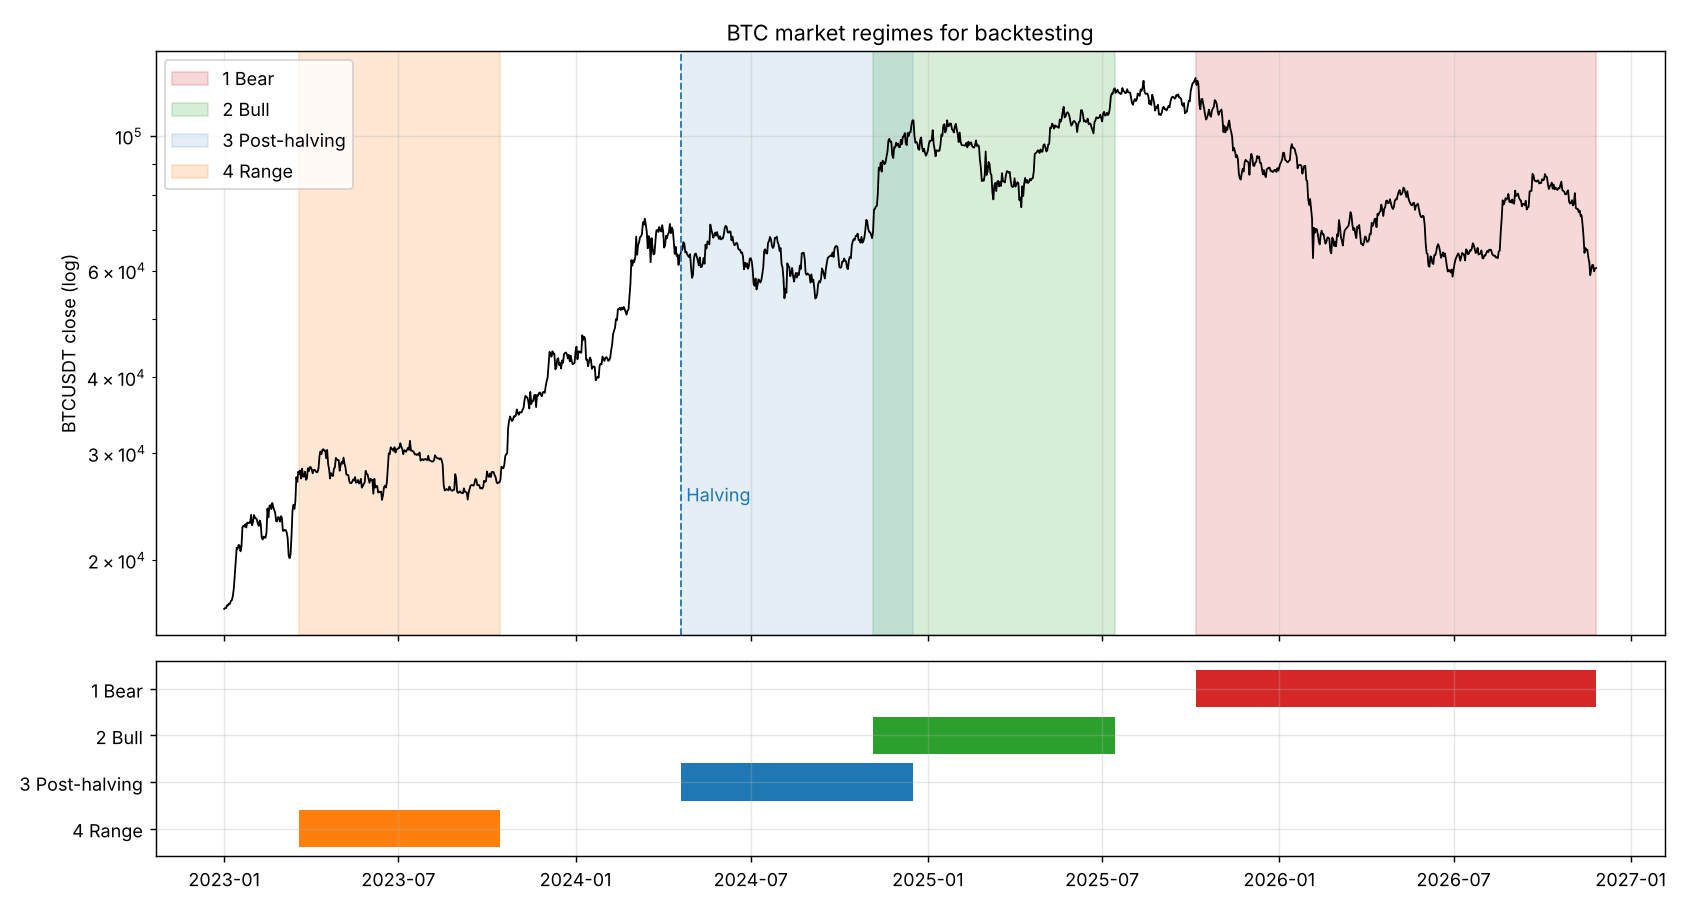
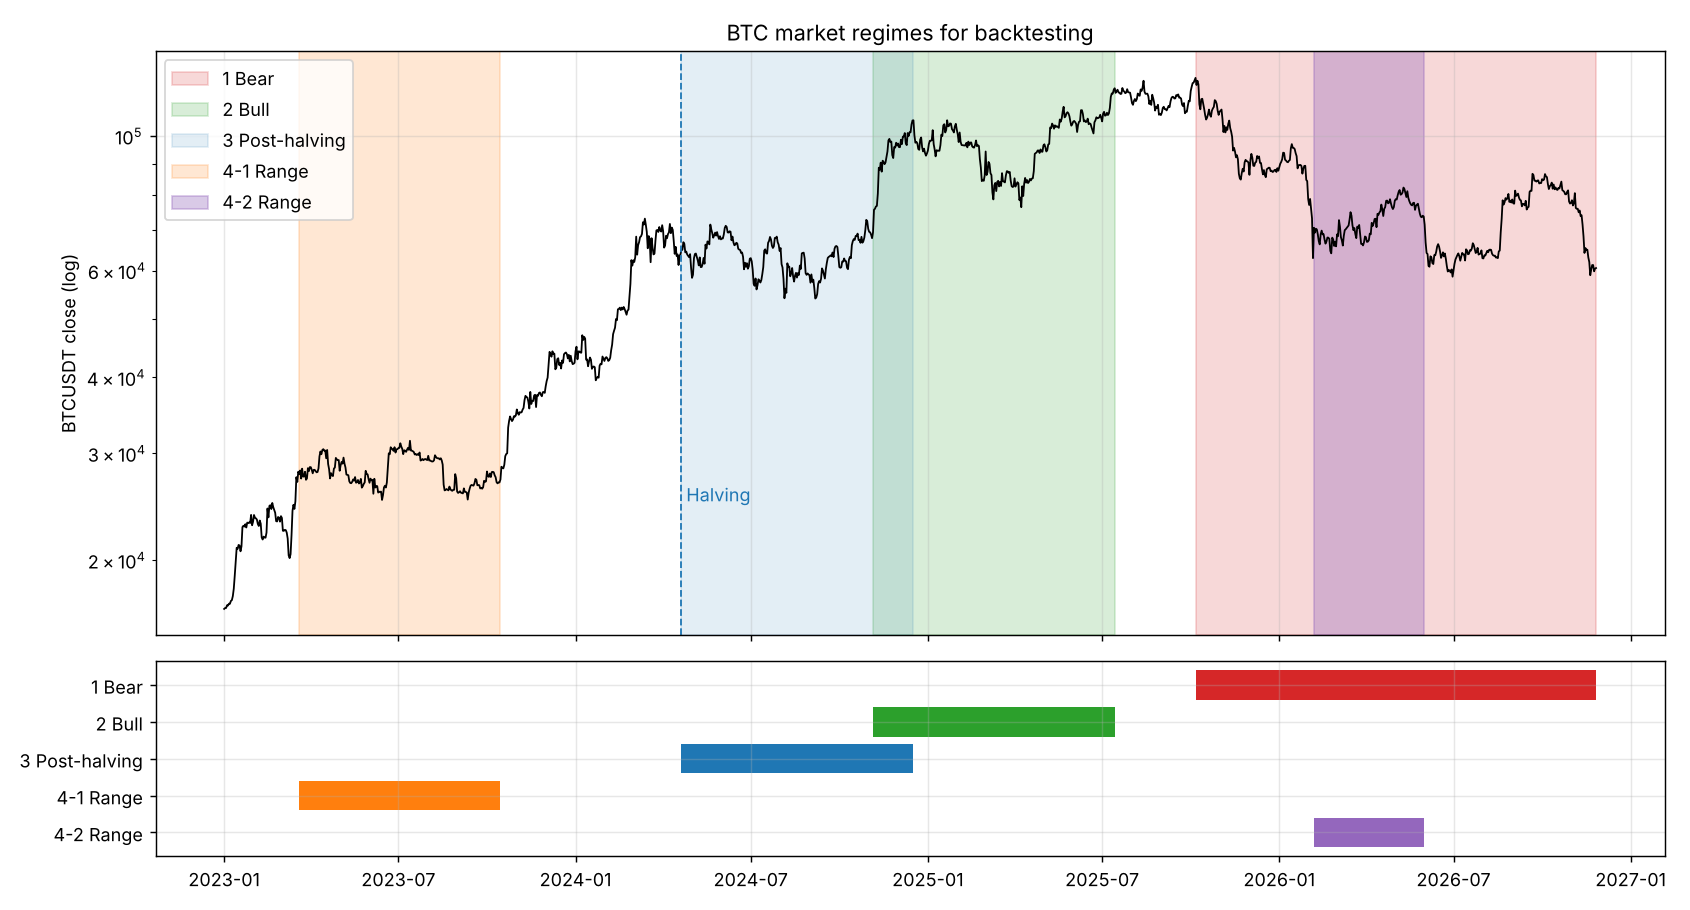
Add 4-2 range period (2026-02-06 ~ 2026-05-31)
Claude-Session: https://claude.ai/code/session_01UDv7FnLjYdrcZqWWgL6eY1

diff --git a/scripts/plot_periods.py b/scripts/plot_periods.py
@@ -5,17 +5,17 @@ import matplotlib.pyplot as plt
 from periods import PERIODS
 ROOT = Path(__file__).resolve().parents[1]
 d = pd.read_csv(ROOT/"data/btcusdt_1d.csv", index_col=0, parse_dates=True).loc["2023-01-01":]
-colors = {"1_bear":"#d62728","2_bull":"#2ca02c","3_halving":"#1f77b4","4_range":"#ff7f0e"}
-labels = {"1_bear":"1 Bear","2_bull":"2 Bull","3_halving":"3 Post-halving","4_range":"4 Range"}
+colors = {"1_bear":"#d62728","2_bull":"#2ca02c","3_halving":"#1f77b4","4_1_range":"#ff7f0e","4_2_range":"#9467bd"}
+labels = {"1_bear":"1 Bear","2_bull":"2 Bull","3_halving":"3 Post-halving","4_1_range":"4-1 Range","4_2_range":"4-2 Range"}
 fig, axes = plt.subplots(2,1,figsize=(13,7),sharex=True,gridspec_kw={"height_ratios":[3,1]})
 ax=axes[0]; ax.semilogy(d.index,d.close,color="black",lw=1)
 for k,p in PERIODS.items():
     off = 0.0 if k!="3_halving" else 0
-    ax.axvspan(pd.Timestamp(p["start"]),pd.Timestamp(p["end"]),color=colors[k],alpha=0.18 if k!="3_halving" else 0.12,label=labels[k])
+    ax.axvspan(pd.Timestamp(p["start"]),pd.Timestamp(p["end"]),color=colors[k],alpha=0.35 if k=="4_2_range" else (0.18 if k!="3_halving" else 0.12),label=labels[k])
 ax.axvline(pd.Timestamp("2024-04-20"),color="#1f77b4",ls="--",lw=1); ax.text(pd.Timestamp("2024-04-25"),25000,"Halving",color="#1f77b4")
 ax.set_ylabel("BTCUSDT close (log)"); ax.legend(loc="upper left"); ax.grid(alpha=.3)
 ax.set_title("BTC market regimes for backtesting")
 for i,(k,p) in enumerate(PERIODS.items()):
     axes[1].barh(i,(pd.Timestamp(p["end"])-pd.Timestamp(p["start"])).days,left=pd.Timestamp(p["start"]),color=colors[k])
-axes[1].set_yticks(range(4)); axes[1].set_yticklabels(labels.values()); axes[1].invert_yaxis(); axes[1].grid(alpha=.3)
+axes[1].set_yticks(range(len(PERIODS))); axes[1].set_yticklabels(labels.values()); axes[1].invert_yaxis(); axes[1].grid(alpha=.3)
 plt.tight_layout(); plt.savefig(ROOT/"data/periods.png",dpi=130)

diff --git a/scripts/periods.py b/scripts/periods.py
@@ -15,9 +15,14 @@ PERIODS = {
         "start": "2024-04-20",  # 4차 반감기
         "end":   "2024-12-17",  # 108k 고점 (11~12월 구간은 2번과 겹침)
     },
-    "4_range": {
-        "name": "횡보장",
+    "4_1_range": {
+        "name": "횡보장 1 (2023)",
         "start": "2023-03-20",  # 25k~31.8k 박스
         "end":   "2023-10-15",
+    },
+    "4_2_range": {
+        "name": "횡보장 2 (2026, 최근 가격대)",
+        "start": "2026-02-06",  # 60k~82k 박스
+        "end":   "2026-05-31",
     },
 }
